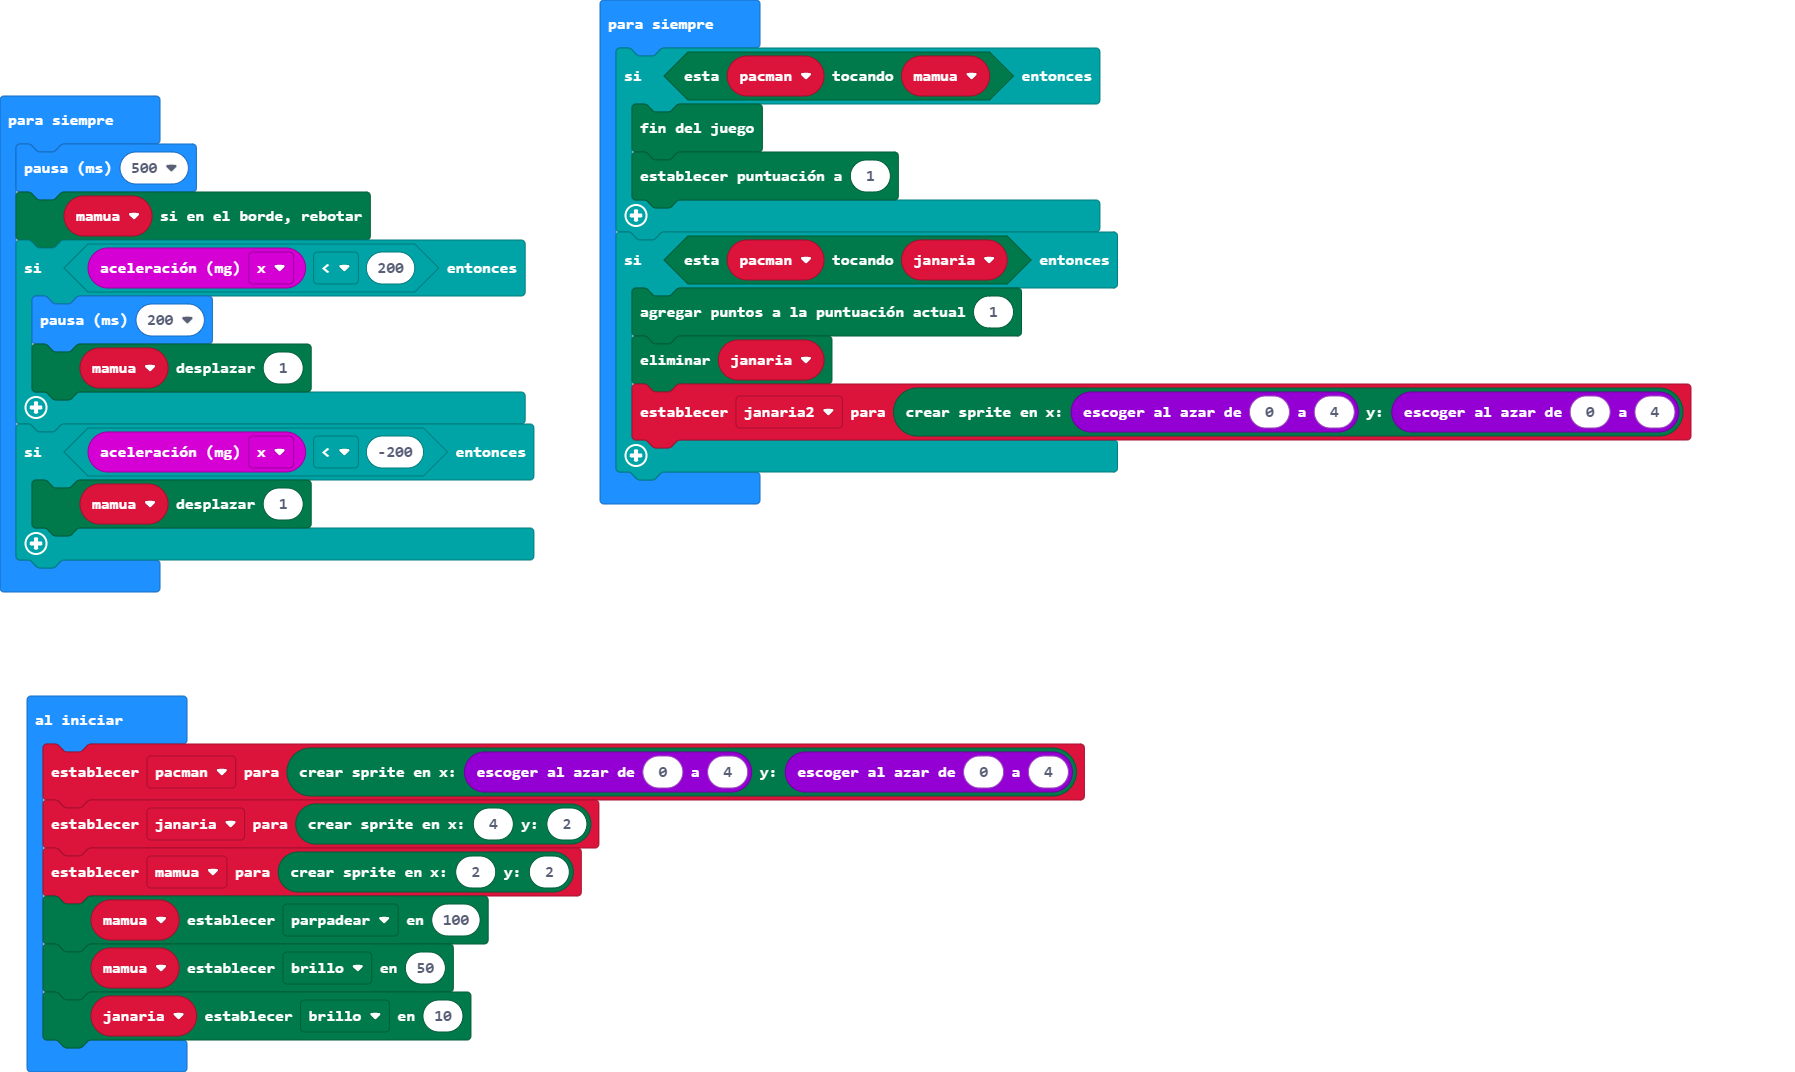
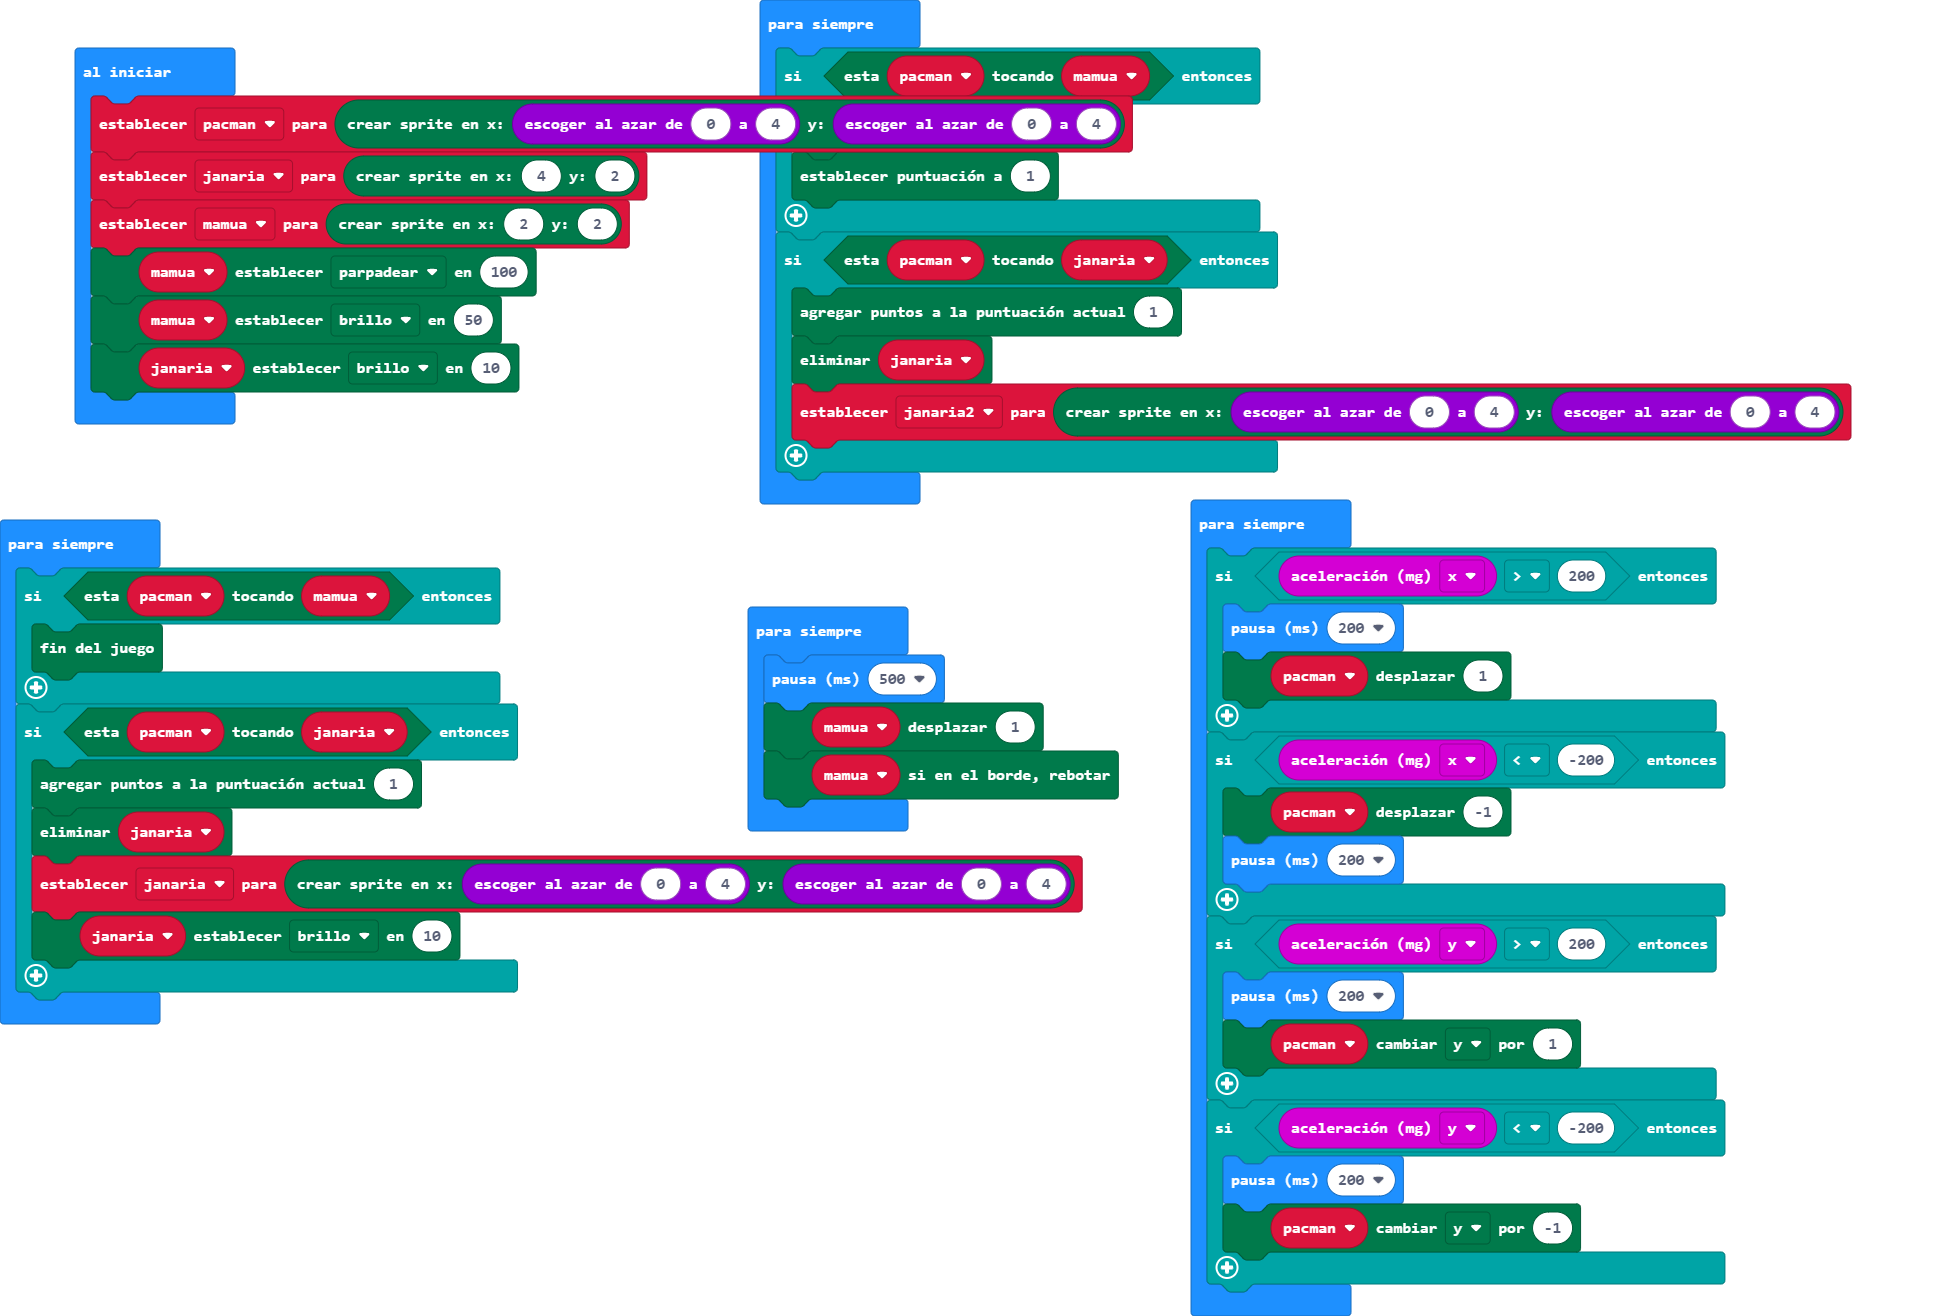
Actualizar main.blocks, main.ts

diff --git a/main.ts b/main.ts
@@ -17,13 +17,36 @@ basic.forever(function () {
     }
 })
 basic.forever(function () {
-    basic.pause(500)
-    mamua.ifOnEdgeBounce()
-    if (input.acceleration(Dimension.X) < 200) {
+    if (pacman.isTouching(mamua)) {
+        game.gameOver()
+    }
+    if (pacman.isTouching(janaria)) {
+        game.addScore(1)
+        janaria.delete()
+        janaria = game.createSprite(randint(0, 4), randint(0, 4))
+        janaria.set(LedSpriteProperty.Brightness, 10)
+    }
+})
+basic.forever(function () {
+    if (input.acceleration(Dimension.X) > 200) {
         basic.pause(200)
-        mamua.move(1)
+        pacman.move(1)
     }
     if (input.acceleration(Dimension.X) < -200) {
-        mamua.move(1)
+        pacman.move(-1)
+        basic.pause(200)
     }
+    if (input.acceleration(Dimension.Y) > 200) {
+        basic.pause(200)
+        pacman.change(LedSpriteProperty.Y, 1)
+    }
+    if (input.acceleration(Dimension.Y) < -200) {
+        basic.pause(200)
+        pacman.change(LedSpriteProperty.Y, -1)
+    }
+})
+basic.forever(function () {
+    basic.pause(500)
+    mamua.move(1)
+    mamua.ifOnEdgeBounce()
 })
